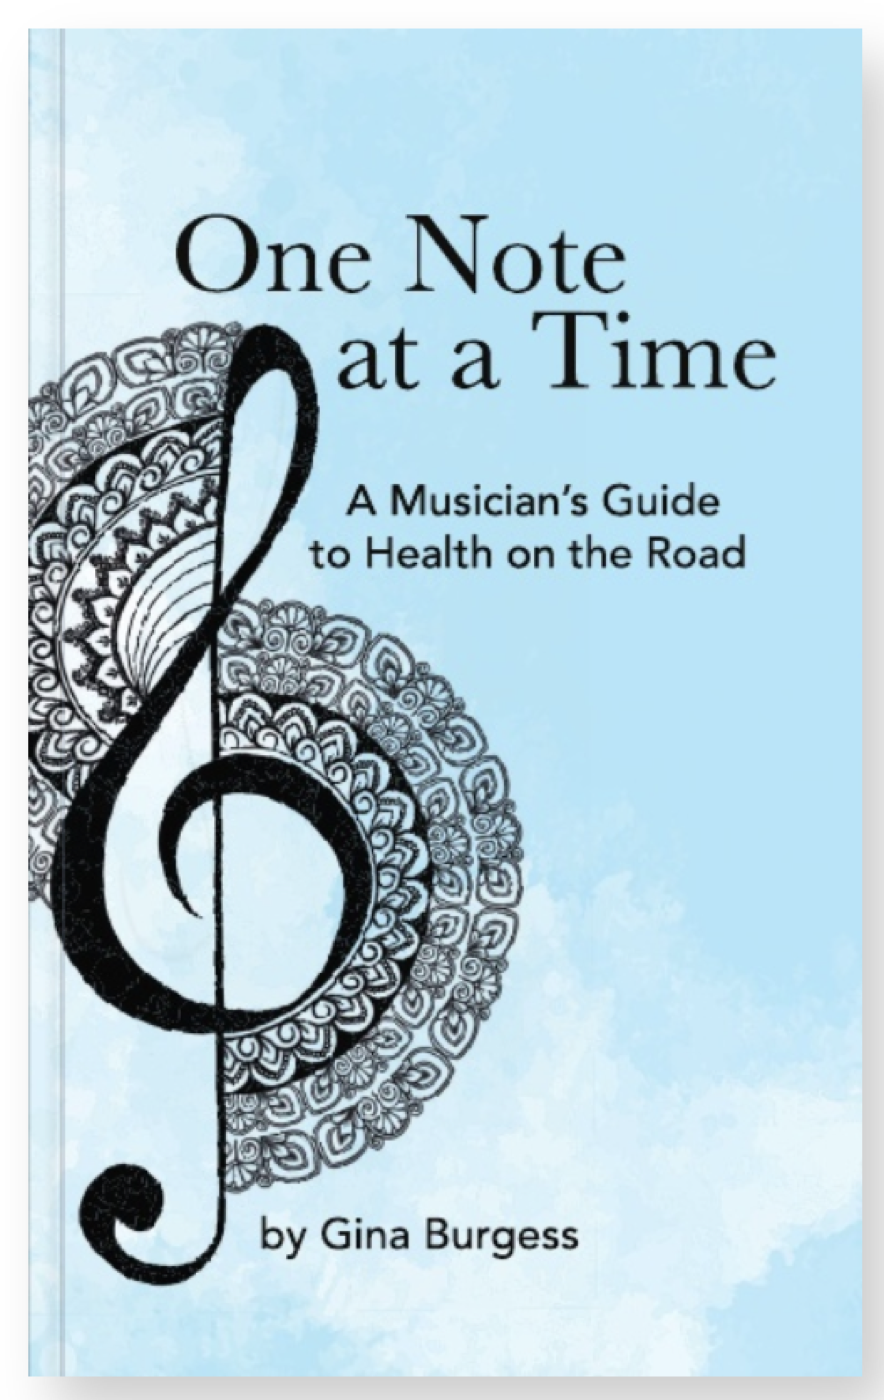
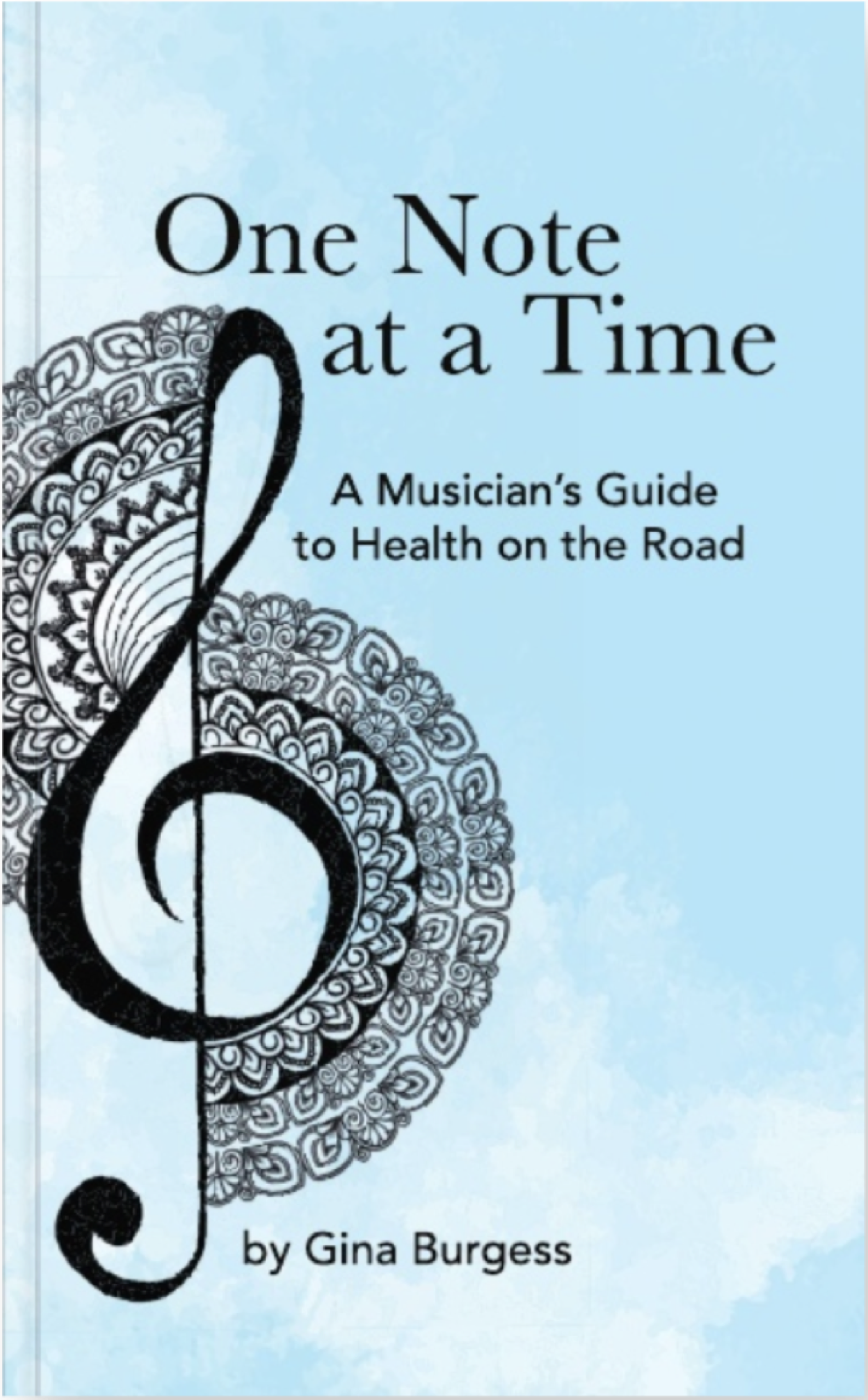
Refine book cover display

diff --git a/styles.css b/styles.css
@@ -924,15 +924,29 @@ h3 {
 }
 
 .book-cover-card {
+  position: relative;
   overflow: hidden;
   width: min(100%, 380px);
   background: #fff;
-  border: 1px solid var(--line);
-  border-radius: 8px;
-  box-shadow: var(--shadow);
+  border-radius: 4px 8px 8px 4px;
+  box-shadow:
+    0 28px 45px rgba(45, 26, 31, 0.18),
+    10px 14px 0 rgba(125, 38, 56, 0.08);
+}
+
+.book-cover-card::before {
+  content: "";
+  position: absolute;
+  inset: 0 auto 0 0;
+  z-index: 1;
+  width: 6.5%;
+  background:
+    linear-gradient(90deg, rgba(45, 26, 31, 0.18), rgba(255, 255, 255, 0.16) 42%, rgba(45, 26, 31, 0.06));
+  pointer-events: none;
 }
 
 .book-cover-card img {
+  display: block;
   width: 100%;
   height: auto;
 }

diff --git a/news.html b/news.html
@@ -40,7 +40,7 @@
 
       <section class="section book-feature">
         <div class="book-cover-card">
-          <img src="assets/illustrations/one-note-cover.png" alt="Cover of One Note at a Time, a musician's guide to health on the road" width="884" height="1400">
+          <img src="assets/illustrations/one-note-cover.png" alt="Cover of One Note at a Time, a musician's guide to health on the road" width="868" height="1400">
         </div>
         <div class="book-copy">
           <p class="eyebrow">Published illustration</p>
